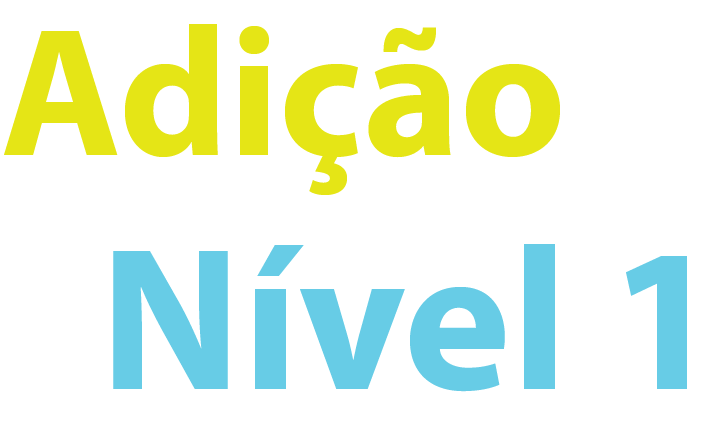
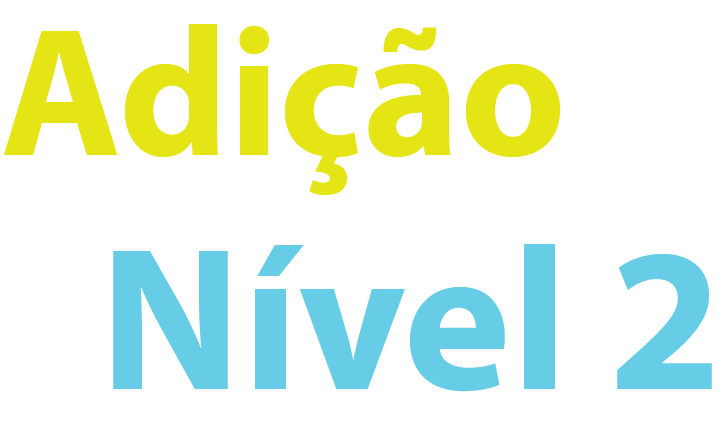
mudança calculos e titulo

Changed region(s): [[0.852, 0.5614, 1.0, 0.8864]]

diff --git a/G-Kart/kart.js b/G-Kart/kart.js
@@ -1303,94 +1303,94 @@ window.addEventListener("resize", () => {
 
 var questions = [
   {
-    question: '5 + 2 =',
-    answer: 7,
-    options: [8, 9],
+    question: '12 + 10 =',
+    answer: 22,
+    options: [21, 25],
   },
   {
-    question: '3 + 7 =',
-    answer: 10,
-    options: [6, 11],
+    question: '16 + 15 =',
+    answer: 31,
+    options: [30, 34],
   },
   {
-    question: '4 + 4 =',
-    answer: 8,
-    options: [9, 7],
+    question: '13 + 21 =',
+    answer: 34,
+    options: [33, 36],
   },
   {
-    question: '9 + 3 =',
-    answer: 12,
-    options: [11, 13],
+    question: '6 + 26 =',
+    answer: 32,
+    options: [34, 36],
   },
   {
-    question: '6 + 5 =',
-    answer: 11,
-    options: [12, 13],
+    question: '19 + 14 =',
+    answer: 33,
+    options: [30, 35],
   },
   {
-    question: '8 + 5 =',
-    answer: 13,
-    options: [12, 15],
+    question: '13 + 27 =',
+    answer: 40,
+    options: [41, 44],
   },
   {
-    question: '6 + 3 =',
-    answer: 9,
-    options: [8, 9],
+    question: '13 + 11 =',
+    answer: 24,
+    options: [22, 26],
   },
   {
-    question: '4 + 8 =',
-    answer: 12,
-    options: [11, 14],
+    question: '17 + 16 =',
+    answer: 33,
+    options: [30, 35],
   },
   {
-    question: '5 + 5 =',
-    answer: 10,
-    options: [9, 11],
+    question: '14 + 22 =',
+    answer: 36,
+    options: [34, 26],
   },
   {
-    question: '10 + 4 =',
-    answer: 14,
-    options: [13, 15],
+    question: '7 + 27 =',
+    answer: 34,
+    options: [33, 37],
   },
   {
-    question: '7 + 6 =',
-    answer: 13,
-    options: [14, 17],
+    question: '20 + 15 =',
+    answer: 35,
+    options: [31, 34],
   },
   {
-    question: '9 + 6 =',
-    answer: 15,
-    options: [17, 14],
+    question: '14 + 28 =',
+    answer: 42,
+    options: [40, 46],
   },
   {
-    question: '7 + 4 =',
-    answer: 11,
-    options: [10, 14],
+    question: '14 + 12 =',
+    answer: 26,
+    options: [24, 28],
   },
   {
-    question: '5 + 10 =',
-    answer: 15,
-    options: [12, 14],
+    question: '18 + 17 =',
+    answer: 35,
+    options: [25, 33],
   },
   {
-    question: '6 + 6 =',
-    answer: 12,
-    options: [11, 14],
+    question: '15 + 23 =',
+    answer: 38,
+    options: [35, 36],
   },
   {
-    question: '11 + 5 =',
-    answer: 16,
-    options: [17, 14],
+    question: '8 + 28 =',
+    answer: 36,
+    options: [35, 38],
   },
   {
-    question: '8 + 7 =',
-    answer: 15,
-    options: [11, 14],
+    question: '21 + 16 =',
+    answer: 37,
+    options: [35, 39],
   },
   {
-    question: '10 + 7 =',
-    answer: 17,
-    options: [16, 19],
+    question: '16 + 29 =',
+    answer: 45,
+    options: [44, 47],
   },
 ];
 // for (var i = 1; i <= 10; i++) {

diff --git a/index.html b/index.html
@@ -5,7 +5,7 @@
 
   <meta charset="UTF-8">
   <meta name="viewport" content="width=device-width, initial-scale=1.0">
-  <title>Adição 1º ano</title>
+  <title>Adição nível 2</title>
   <!-- Chrome, Firefox OS and Opera -->
   <meta name="theme-color" content="rgba(117, 192, 67, 0.95)">
   <!-- Windows Phone -->
